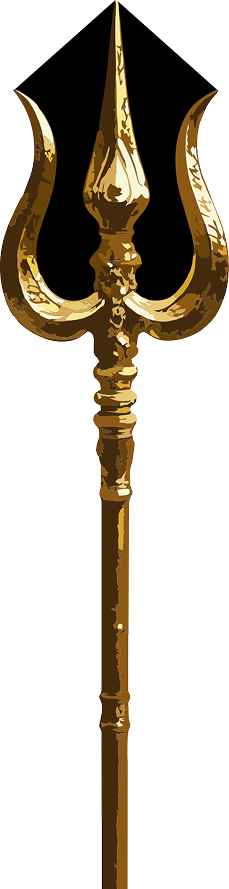
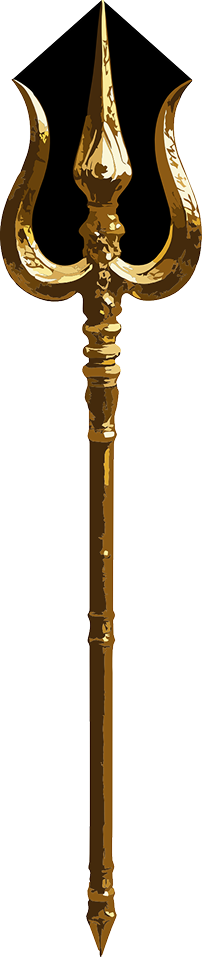
entryoverlay

Changed region(s): [[0.0, 0.0, 1.0, 1.0]]

diff --git a/src/components/kalikulam/EntryOverlay.tsx b/src/components/kalikulam/EntryOverlay.tsx
@@ -1,4 +1,5 @@
 import { motion, AnimatePresence } from "framer-motion";
+import goddessImg from "@/assets/kaali_maa_tandav.png";
 
 interface EntryOverlayProps {
   onEnter: () => void;
@@ -30,57 +31,121 @@ export function EntryOverlay({ onEnter, visible }: EntryOverlayProps) {
             WebkitTapHighlightColor: "transparent",
           }}
         >
-          {/* Subtle red glow ring */}
-          <motion.div
-            animate={{
-              boxShadow: [
-                "0 0 60px 20px rgba(180,0,0,0.18)",
-                "0 0 120px 50px rgba(180,0,0,0.32)",
-                "0 0 60px 20px rgba(180,0,0,0.18)",
-              ],
-            }}
-            transition={{ duration: 3, repeat: Infinity, ease: "easeInOut" }}
+          {/* ── Goddess + Smoke Ring ── */}
+          <div
             style={{
-              width: 160,
-              height: 160,
-              borderRadius: "50%",
-              border: "1.5px solid rgba(200,0,0,0.35)",
+              position: "relative",
+              width: 260,
+              height: 260,
               display: "flex",
               alignItems: "center",
               justifyContent: "center",
-              marginBottom: 36,
+              marginBottom: 28,
             }}
           >
-            {/* Inner ring */}
+            {/* ── Deep ambient pulse behind everything ── */}
+            <motion.div
+              animate={{ opacity: [0.3, 0.6, 0.3], scale: [1, 1.08, 1] }}
+              transition={{ duration: 4, repeat: Infinity, ease: "easeInOut" }}
+              style={{
+                position: "absolute",
+                width: 260,
+                height: 260,
+                borderRadius: "50%",
+                background:
+                  "radial-gradient(circle, rgba(160,0,0,0.35) 0%, rgba(100,0,0,0.12) 55%, transparent 75%)",
+                pointerEvents: "none",
+              }}
+            />
+
+            {/* ── Smoke layer 1 — slow CW ── */}
             <motion.div
               animate={{ rotate: 360 }}
-              transition={{ duration: 18, repeat: Infinity, ease: "linear" }}
+              transition={{ duration: 14, repeat: Infinity, ease: "linear" }}
               style={{
-                width: 128,
-                height: 128,
+                position: "absolute",
+                width: 256,
+                height: 256,
                 borderRadius: "50%",
-                border: "1px dashed rgba(200,0,0,0.4)",
-                display: "flex",
-                alignItems: "center",
-                justifyContent: "center",
+                background:
+                  "conic-gradient(from 0deg, transparent 0%, rgba(120,0,0,0.22) 18%, rgba(180,20,0,0.38) 30%, transparent 42%, transparent 58%, rgba(100,0,0,0.18) 72%, rgba(160,10,0,0.32) 84%, transparent 100%)",
+                filter: "blur(10px)",
+                pointerEvents: "none",
               }}
-            >
-              {/* OM symbol */}
-              <span
-                style={{
-                  fontSize: 52,
-                  color: "#cc2200",
-                  fontFamily: "'Mukta', serif",
-                  lineHeight: 1,
-                  textShadow: "0 0 24px rgba(200,0,0,0.7)",
-                }}
-              >
-                ॐ
-              </span>
-            </motion.div>
-          </motion.div>
+            />
 
-          {/* Site name — styled title block */}
+            {/* ── Smoke layer 2 — faster CCW, offset hue ── */}
+            <motion.div
+              animate={{ rotate: -360 }}
+              transition={{ duration: 9, repeat: Infinity, ease: "linear" }}
+              style={{
+                position: "absolute",
+                width: 232,
+                height: 232,
+                borderRadius: "50%",
+                background:
+                  "conic-gradient(from 120deg, transparent 0%, rgba(80,0,0,0.15) 14%, rgba(200,30,0,0.28) 26%, transparent 38%, transparent 62%, rgba(140,0,0,0.2) 76%, rgba(190,20,0,0.3) 88%, transparent 100%)",
+                filter: "blur(14px)",
+                pointerEvents: "none",
+              }}
+            />
+
+            {/* ── Smoke layer 3 — medium CW, wider blur ── */}
+            <motion.div
+              animate={{ rotate: 360 }}
+              transition={{ duration: 20, repeat: Infinity, ease: "linear" }}
+              style={{
+                position: "absolute",
+                width: 268,
+                height: 268,
+                borderRadius: "50%",
+                background:
+                  "conic-gradient(from 240deg, transparent 0%, rgba(60,0,0,0.1) 10%, rgba(170,10,0,0.22) 22%, transparent 35%, transparent 65%, rgba(120,0,0,0.14) 80%, rgba(180,20,0,0.2) 92%, transparent 100%)",
+                filter: "blur(18px)",
+                pointerEvents: "none",
+                opacity: 0.85,
+              }}
+            />
+
+            {/* ── Thin ember ring — sharp, barely visible ── */}
+            <motion.div
+              animate={{ rotate: -360 }}
+              transition={{ duration: 30, repeat: Infinity, ease: "linear" }}
+              style={{
+                position: "absolute",
+                width: 248,
+                height: 248,
+                borderRadius: "50%",
+                border: "1px dashed rgba(200,60,0,0.18)",
+                pointerEvents: "none",
+              }}
+            />
+
+            {/* ── Goddess image — screen blend removes black bg ── */}
+            <motion.img
+              src={goddessImg}
+              animate={{
+                filter: [
+                  "drop-shadow(0 0 10px rgba(200,0,0,0.4)) brightness(0.95)",
+                  "drop-shadow(0 0 30px rgba(200,0,0,0.8)) brightness(1.05)",
+                  "drop-shadow(0 0 10px rgba(200,0,0,0.4)) brightness(0.95)",
+                ],
+              }}
+              transition={{ duration: 3.5, repeat: Infinity, ease: "easeInOut" }}
+              style={{
+                width: 220,
+                height: 220,
+                objectFit: "cover",
+                objectPosition: "center center",
+                position: "relative",
+                zIndex: 2,
+                mixBlendMode: "screen",
+                borderRadius: "50%",
+              }}
+            />
+          </div>
+
+          {/* ── Site name ── */}
           <motion.div
             initial={{ opacity: 0, y: 12 }}
             animate={{ opacity: 1, y: 0 }}
@@ -103,12 +168,12 @@ export function EntryOverlay({ onEnter, visible }: EntryOverlayProps) {
             {/* Main title */}
             <h1
               style={{
-                fontFamily: "'Mukta', sans-serif",
+                fontFamily: "'Mukta', serif",
                 fontWeight: 700,
                 fontSize: "clamp(34px, 9vw, 58px)",
                 margin: 0,
-                padding: "6px 10px 6px",
-                lineHeight: 1.3,
+                padding: "0 8px 4px",
+                lineHeight: 1.2,
                 display: "inline-block",
                 background: "linear-gradient(160deg, #fff 10%, #e8c49a 45%, #cc3300 100%)",
                 WebkitBackgroundClip: "text",
@@ -129,20 +194,55 @@ export function EntryOverlay({ onEnter, visible }: EntryOverlayProps) {
             </div>
           </motion.div>
 
-          {/* Tap to enter pulse */}
+          {/* ── माँ के द्वार पर आएं ── */}
           <motion.p
             animate={{ opacity: [0.5, 1, 0.5] }}
-            transition={{ duration: 2, repeat: Infinity, ease: "easeInOut" }}
+            transition={{ duration: 2.4, repeat: Infinity, ease: "easeInOut" }}
             style={{
-              fontFamily: "'Mukta', serif",
-              fontSize: "clamp(13px, 3vw, 16px)",
-              color: "rgba(255,255,255,0.45)",
-              letterSpacing: "0.22em",
-              textTransform: "uppercase",
+              fontFamily: "'Yatra One', serif",
+              fontSize: "clamp(14px, 3.5vw, 17px)",
+              color: "rgba(235,181,124,0.85)",
+              letterSpacing: "0.06em",
               marginTop: 8,
+              textAlign: "center",
             }}
           >
-            ✦ &nbsp; Tap to Enter &nbsp; ✦
+            माँ के द्वार पर आएं
+          </motion.p>
+
+          {/* ── Bindi dot ── */}
+          <motion.div
+            animate={{
+              boxShadow: [
+                "0 0 0 0 rgba(244,41,3,0.6)",
+                "0 0 0 8px transparent",
+                "0 0 0 0 transparent",
+              ],
+            }}
+            transition={{ duration: 2, repeat: Infinity, ease: "easeOut" }}
+            style={{
+              width: 5,
+              height: 5,
+              borderRadius: "50%",
+              background: "#f45b03",
+              marginTop: 8,
+            }}
+          />
+
+          {/* ── Whisper hint ── */}
+          <motion.p
+            animate={{ opacity: [0, 1, 0] }}
+            transition={{ duration: 2.5, repeat: Infinity, ease: "easeInOut", delay: 1 }}
+            style={{
+              fontFamily: "'Mukta', sans-serif",
+              fontSize: "11px",
+              color: "rgba(255,255,255,0.22)",
+              letterSpacing: "0.3em",
+              textTransform: "uppercase",
+              marginTop: 20,
+            }}
+          >
+            tap anywhere
           </motion.p>
         </motion.div>
       )}

diff --git a/src/components/kalikulam/FaqSection.tsx b/src/components/kalikulam/FaqSection.tsx
@@ -96,14 +96,19 @@ export function FaqSection() {
           >
             <AccordionItem
               value={`item-${i}`}
-              className="border-b border-[#1f1f1f] py-1"
+              className="border-b border-[#1f1f1f] py-1 relative"
             >
-              <AccordionTrigger className="text-left text-[15px] font-medium text-[#D6A15F] hover:no-underline py-4 [&>svg]:text-[#D6A15F] [&>svg]:h-4 [&>svg]:w-4 [&>svg]:transition-transform [&>svg]:duration-300">
-                {faq.q}
+              <div className="absolute bottom-0 left-0 right-0 h-[1px] overflow-hidden">
+                <div className="h-full w-full bg-gradient-to-r from-transparent via-white/15 to-transparent bg-[length:200%_100%] animate-shimmer" />
+              </div>
+              <AccordionTrigger className="text-left text-[16px] md:text-[17px] font-medium hover:no-underline py-4 [&>svg]:text-[#D6A15F] [&>svg]:h-4 [&>svg]:w-4 [&>svg]:transition-transform [&>svg]:duration-300">
+                <span className="bg-linear-to-r from-[#EBB57C] to-[#94622C] bg-clip-text text-transparent">
+                  {faq.q}
+                </span>
               </AccordionTrigger>
 
               <AccordionContent className="pt-2 pb-4">
-                <div className="rounded-2xl bg-linear-to-br from-[#111111] to-[#1a1a1a] px-6 py-5 text-[#D8D8D8] text-[14px] leading-7 space-y-4 border border-[#2a2a2a]">
+                <div className="rounded-2xl bg-linear-to-br from-[#0d0d0d] to-[#151515] px-6 py-5 text-[#FFFFFF] text-[15px] md:text-[16px] leading-8 space-y-4 border border-[#2a2a2a]">
                   {faq.a.map((p, j) => (
                     <p key={j}>{p}</p>
                   ))}

diff --git a/src/index.css b/src/index.css
@@ -242,3 +242,16 @@ button {
     color: oklch(0.92 0.02 60 / 0.06);
   }
 }
+
+@keyframes shimmer {
+  0% {
+    background-position: -200% 0;
+  }
+  100% {
+    background-position: 200% 0;
+  }
+}
+
+.animate-shimmer {
+  animation: shimmer 2.5s infinite linear;
+}

diff --git a/src/layout/Navbar.tsx b/src/layout/Navbar.tsx
@@ -1,6 +1,7 @@
 import { useState, useEffect } from "react";
 import { motion, AnimatePresence } from "framer-motion";
 import LogoSrc from "@/assets/Logo-Mark.png";
+import NavbarMantra from "@/assets/Navbar_Mantra.png";
 
 const navLinks = ["मुख्यपृष्ठ", "परिचय", "सेवाएं", "सहयोग"];
 
@@ -22,8 +23,12 @@ export function Navbar() {
       animate={{ opacity: 1, y: 0 }}
       transition={{ duration: 0.6, ease: [0.22, 1, 0.36, 1], delay: 0.08 }}
     >
-      <div className="bg-[#F42903] text-primary-foreground text-center py-1.5 text-sm font-body">
-        ‖ ॐ कृष्ण काली शंकराय स्वाहा ‖
+      <div className="bg-[#F42903] flex justify-center py-1.5">
+        <img
+          src={NavbarMantra}
+          alt="ॐ कृष्ण काली शंकराय स्वाहा"
+          className="h-4 md:h-5 w-auto object-contain"
+        />
       </div>
 
       <nav className="mx-auto flex max-w-5xl items-center justify-between px-6 py-3">

diff --git a/src/components/kalikulam/IntroGuru.tsx b/src/components/kalikulam/IntroGuru.tsx
@@ -47,7 +47,7 @@ export function IntroGuru() {
         <motion.div variants={slideLeft}>
           <motion.p
             variants={fadeUp}
-            className="text-foreground/75 leading-relaxed text-[14px] md:text-[15px] pb-2"
+            className="text-[#FFFFFF] leading-relaxed text-[14px] md:text-[15px] pb-2"
           >
             पूज्य आदिगुरु ,
           </motion.p>
@@ -61,9 +61,9 @@ export function IntroGuru() {
             मांगीलाल भील
           </motion.h2>
 
-          <div className="space-y-3 md:space-y-4 text-foreground/75 leading-relaxed text-[13px] md:text-[15px] mt-3 md:mt-4">
+          <div className="space-y-3 md:space-y-4 text-[#FFFFFF] leading-relaxed text-[13px] md:text-[15px] mt-3 md:mt-4">
             <motion.p variants={fadeUp}>
-              तंत्र शास्त्र के सूत्र "गृहस्थो नास्ति मे तुल्य:" (गृहस्थ के समान
+              तंत्र शास्त्र के सूत्र "<span className="font-bold">गृहस्थो नास्ति मे तुल्य:</span>" (गृहस्थ के समान
               कोई नहीं) को चरितार्थ करते हुए, माँ शारदा के परम उपासक पूज्य
               आदिगुरु मांगीलाल भील एक कुशल गृहस्थ और अडिग साधक का जीवंत उदाहरण
               हैं।
@@ -84,7 +84,7 @@ export function IntroGuru() {
 
         {/* Image — slides from right, no infinite float */}
         <motion.div
-          className="flex justify-center mt-4 md:mt-0"
+          className="flex justify-center mt-4 md:mt-0 md:pt-[100px]"
           variants={slideRight}
           whileHover={{ scale: 1.02, transition: { duration: 0.3 } }}
         >

diff --git a/src/components/kalikulam/TantraSection.tsx b/src/components/kalikulam/TantraSection.tsx
@@ -91,7 +91,7 @@ export function TantraSection() {
           className="h-16 md:h-24 w-auto object-contain"
           loading="eager"
         />
-        <p className="text-foreground -mt-2 text-sm md:text-base">
+        <p className="text-[#FFFFFF] -mt-2 text-sm md:text-base">
           विधि, ध्वनि और रूप - तीन शक्तियाँ, एक मार्ग
         </p>
       </motion.div>
@@ -116,7 +116,7 @@ export function TantraSection() {
                 className="h-8 md:h-12 w-auto mb-4 object-contain"
                 loading="lazy"
               />
-              <p className="text-foreground leading-relaxed text-[15px]">
+              <p className="text-[#FFFFFF] leading-relaxed text-[15px]">
                 {item.text}
               </p>
             </motion.div>
@@ -149,7 +149,7 @@ export function TantraSection() {
                   alt={`${item.title} emblem`}
                   loading="lazy"
                   decoding="async"
-                  className={`absolute inset-0 ${item.title === "यंत्र" ? "w-24 md:w-28" : "w-28 md:w-32"} m-auto`}
+                  className={`absolute inset-0 ${item.title === "यंत्र" ? "w-24 md:w-28" : "w-28 md:w-32"} ${item.title === "मंत्र" ? "ml-[-8px] md:ml-[-12px]" : "m-auto"}`}
                 />
               </div>
             </motion.div>